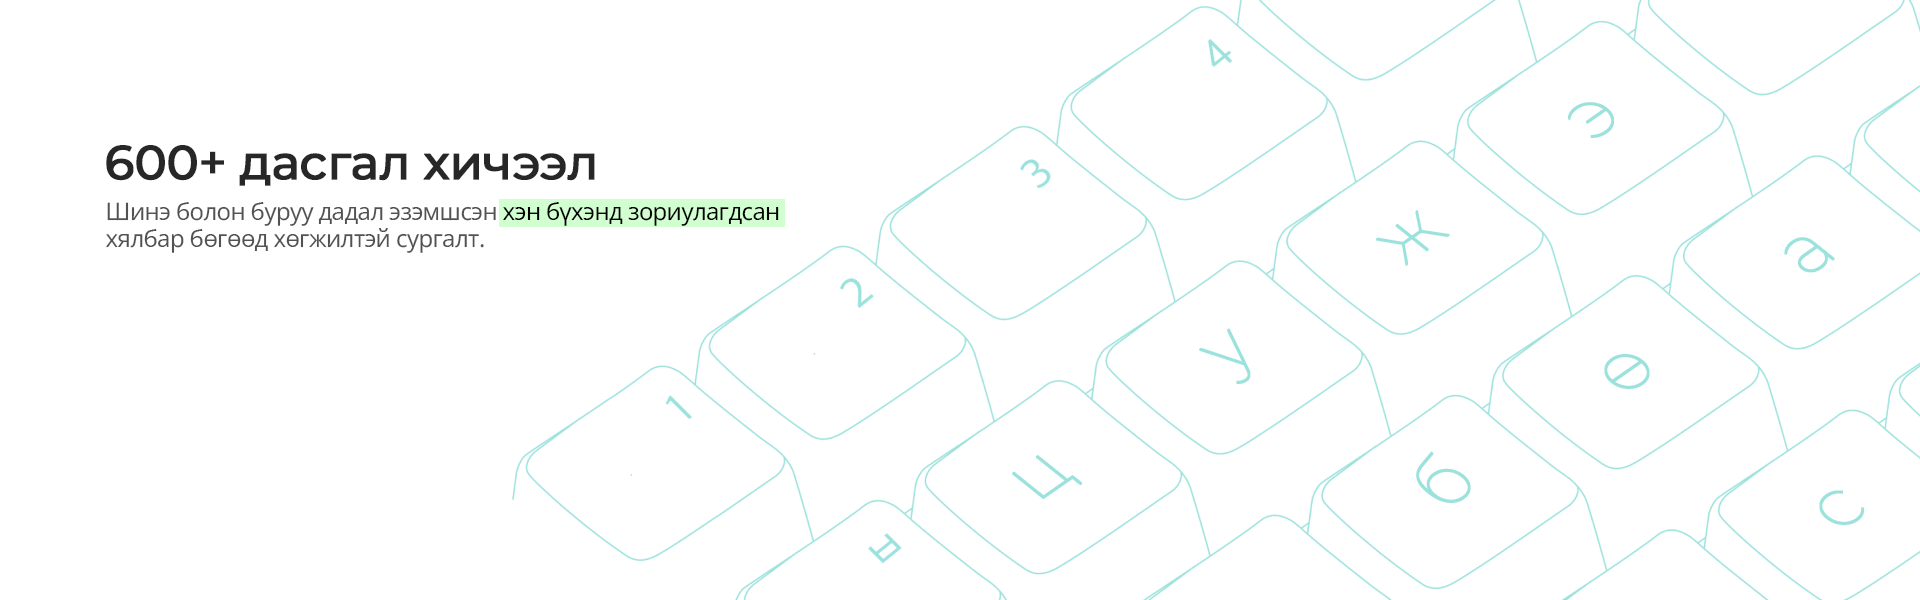
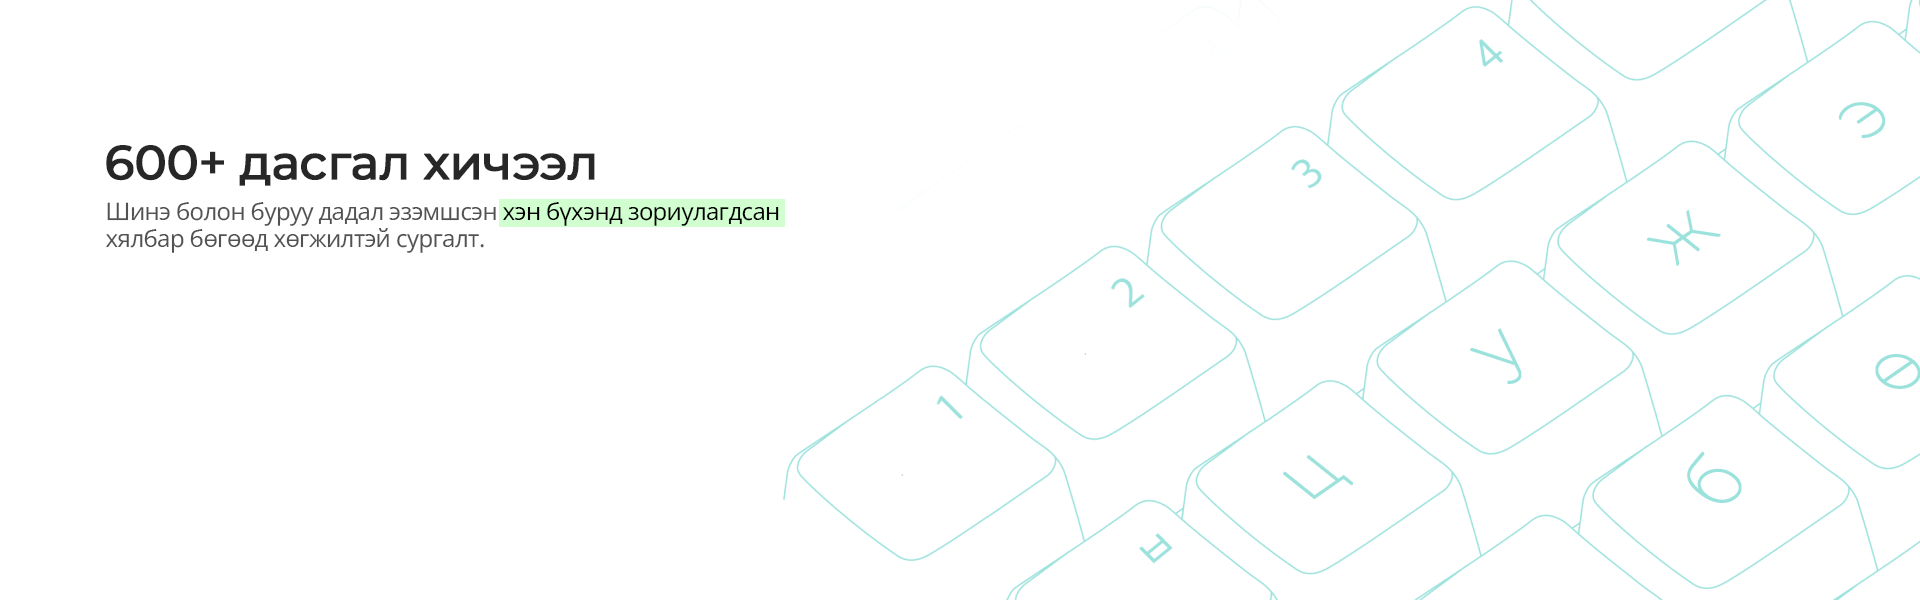
home page changes

diff --git a/front/src/views/Home.vue b/front/src/views/Home.vue
@@ -3,7 +3,8 @@
     <section class="home">
       <a-carousel>
         <div v-for="(item, index) in banner" :key="'banner' + index" class="banner">
-          <img :src="$appUrl +'/images/banner/'+item.banner" alt="">
+          <img v-if="!isMobile" :src="$appUrl +'/images/banner/'+item.banner" alt="">
+          <img v-else :src="$appUrl +'/images/banner/'+item.mobile" alt="">
           <router-link :to="item.link">
             <div class="button">Хичээл эхлүүлэх</div>
           </router-link>
@@ -11,29 +12,135 @@
       </a-carousel>
     </section>
 
-    <section class="">
-      
-    </section>
-    <section class="footer">
-      
-    </section>
+    <div class="home-container">
+      <div class="header">Нийтлэг ойлголт</div>
+      <section class="about">
+        <div class="col">
+          <div class="title">
+            Суралцагчид ихэвчлэн юун дээр алддаг вэ?
+          </div>
+          <div class="more">
+            Хурдан бичиж сурах гэж оролдож байгаа хүмүүс ихэвчлэн компьютерийн
+            гар руу харах нь элбэг. Гэхдээ энэ нь хамгийн түгээмэл гаргадаг алдаануудын нэг юм.
+          </div>
+        </div>
+        <div class="col">
+          <div class="title">
+            Хэрхэн засах вэ?
+          </div>
+          <div class="more">
+            Typing.mn-ыг ашиглахдаа компьютерийн <strong>гар руу огт харахгүйгээр</strong> хичээл дээр
+            гарч байгаа гарын байрлалыг зөв дуурайж бичих хэрэгтэй. Энэ нь таны гар үндсэн байрлалаа илүү хурдан цээжлэх хамгийн <strong>энгийн</strong> бөгөөд <strong>үр дүнтэй</strong> арга юм.
+          </div>
+        </div>
+      </section>
+
+      <section class="about mb-100">
+        <div class="col">
+          <div class="title">
+            Typing.mn нь хэрхэн ажилдаг вэ?
+          </div>
+          <div class="more">
+            Бүтэн 200 оноо авах хүртлээ хичээл бүрийг дахин давт. Таниас тийм их зүйл шаардагдахгүй. Өдөрт хэдхэн минутаар, хэдхэн долоо хоног хичээллэхэд та мэргэжлийн болсон байх болно.
+          </div>
+        </div>
+        <div class="col">
+          <div class="title">
+            Бүртгэл үүсгэх шаардлагатай юу?
+          </div>
+          <div class="more">
+            Өөрийнхөө ахиц дэвшлийг хадгалахын тулд <strong>typing.mn</strong> дээр бүртгэл үүсгэх шаардлагатай. Энэ нь таны <strong>сошиал хаяг</strong> руу бид хандана гэсэн үг огт биш. Зөвхөн typing.mn дээр ашиглагдах таны өөрийн хаяг байх болно.
+          </div>
+        </div>
+      </section>
+    </div>
+    <div class="full">
+      <div class="home-container">
+        <div class="header center top-50">Typing.mn-ыг ашиглах шалтгаан</div>
+        <div class="grid">
+          <div class="grid-item"> 
+            <img class="image" src="@/assets/images/game.png" alt="">
+            <div class="description">
+              <strong>Энэ бол тоглоом юм</strong>. <br>Таныг бичиж сурахад илүү сонирхолтой, интерактив талаас нь хөгжүүлэлт хийгдсэн сургалт.
+            </div>
+          </div>
+          <div class="grid-item"> 
+            <img class="image" src="@/assets/images/hands.png" alt="">
+            <div class="description">
+              <strong>Гарын зөв байрлалын хөтөч</strong>. <br>Таныг бичих явцад үсэг, товч бүр дээр гарын зөв байрлалыг харуулах болно.
+            </div>
+          </div>
+          <div class="grid-item">
+            <img class="image" src="@/assets/images/vid.png" alt="">
+            <div class="description">
+              <strong>Интерактив туршлага олгоно</strong>. <br>Тоглоом, Видео, Текст гээд янз бүрийн бичиж сургах сорилтууд багтсан хөгжилтэй, сонирхолтой хичээлүүд. 
+            </div>
+          </div>
+        </div>
+      </div>
+    </div>
+    <a-layout-footer>
+		<a-row type="flex">
+			<a-col :span="12" :md="12">
+
+				<!-- Footer Copyright Notice -->
+				<p class="copyright">
+					© {{year}},
+					<svg width="20" height="20" viewBox="0 0 20 20" fill="none" xmlns="http://www.w3.org/2000/svg">
+						<path fill-rule="evenodd" clip-rule="evenodd" d="M3.17157 5.17157C4.73367 3.60948 7.26633 3.60948 8.82843 5.17157L10 6.34315L11.1716 5.17157C12.7337 3.60948 15.2663 3.60948 16.8284 5.17157C18.3905 6.73367 18.3905 9.26633 16.8284 10.8284L10 17.6569L3.17157 10.8284C1.60948 9.26633 1.60948 6.73367 3.17157 5.17157Z" fill="#111827"/>
+					</svg> -аар бүтээв.
+				</p>
+				<!-- / Footer Copyright Notice -->
+
+			</a-col>
+			<a-col :span="12" :md="12" class="footer-control pr-20">
+				Typing.mn
+				<!-- Гео интегрэйшн ХХК -->
+			</a-col>
+		</a-row>
+	</a-layout-footer>
   </div>
 </template>
 <script>
+const year = new Date().getFullYear();
 export default {
   data() {
     return {
+      year,
       banner: [
         {
           link: '/subjects',
-          banner: 'homebanner.png'
+          banner: 'homebanner.png',
+          mobile: 'mhomebanner.png'
         },
         {
           link: '/subjects',
-          banner: 'homebanner2.png'
+          banner: 'homebanner2.png',
+          mobile: 'mhomebanner2.png'
         }
-      ]
+      ],
+      isMobile: false
     }
+  },
+  computed: {
+
+  },
+  methods: {
+    resize() {
+      if (window.innerWidth > 900) {
+        this.isMobile = false;
+        return;
+      }
+      this.isMobile = true;
+    }
+  },
+  mounted() {
+    this.resize();
+    window.addEventListener('resize', this.resize);
+  },
+  beforeRouteLeave (to, from, next) {
+    window.removeEventListener('resize', this.resize);
+    next();
   }
 }
 </script>

diff --git a/front/src/scss/pages/_home.scss b/front/src/scss/pages/_home.scss
@@ -8,12 +8,12 @@
 
 .home-page {
   .home {
-    height: 60vh;
+    // height: 60vh;
     width: 100%;
-    background-color: grey;
+    // background-color: grey;
 
     .slick-slide {
-      height: 60vh;
+      height: auto;
       display: flex;
       justify-content: center;
       align-items: center;
@@ -41,18 +41,140 @@
         position: absolute;
         left: 10%;
         top: 75%;
-        width: 250px;
-        height: 70px;
+        // @include vw-convert-desktop('width', 250px);
+        // @include vw-convert-desktop('height', 70px);
+        width: 15%;
+        height: 12%;
         display: flex;
         justify-content: center;
         align-items: center;
         font-weight: 600;
         box-shadow: rgb(38, 57, 77) 0px 20px 30px -10px;
+
+        @include mobile {
+          width: 40vw;
+          height: 12%;
+        }
       }
     }
 
     .ant-carousel .slick-dots li button {
       background: #000000;
+    }
+  }
+
+
+  .about {
+    display: flex;
+    flex-direction: row;
+    @include vw-convert-desktop('margin-top', 80px);
+    @include vw-convert-desktop(gap, 50px);
+
+    @include mobile {
+      flex-direction: column;
+      gap: 50px;
+    }
+
+    &.mb-100 {
+      @include vw-convert-desktop(margin-bottom, 100px);
+    }
+    .col {
+      width: 50%;
+      display: flex;
+      flex-direction: column;
+
+      @include mobile {
+        width: 90%;
+      }
+      
+      .title {
+        border-bottom: 1px solid #666666;
+        @include vw-convert-desktop(padding-bottom, 10px);
+        @include vw-convert-desktop(font-size, 15px);
+        font-weight: 500;
+
+        @include mobile {
+          @include vw-convert-mobile(padding-bottom, 10px);
+          @include vw-convert-mobile(font-size, 25px);
+        }
+      }
+      
+      .more {
+        @include vw-convert-desktop(margin-top, 30px);
+      }
+    }
+  }
+}
+
+.full {
+  background-color: #FAC15A;
+
+  .home-container {
+    @include vw-convert-desktop(padding, 10px 0px);
+
+    @include mobile {
+      @include vw-convert-mobile(padding, 10px 0px);
+    }
+  }
+}
+
+.home-container {
+  width: 60%;
+  margin: auto;
+  position: relative;
+
+  @include mobile {
+    width: 70%;
+  }
+
+  .header {
+    @include vw-convert-desktop(font-size, 30px);
+    @include vw-convert-desktop(margin-top, 60px);
+    font-weight: 600;
+
+    @include mobile {
+      @include vw-convert-mobile(font-size, 30px);
+      @include vw-convert-mobile(margin-top, 60px);
+    }
+    &.center {
+      text-align: center;
+    }
+
+    &.top-50 {
+      @include vw-convert-desktop(margin-top, 60px);
+
+      @include mobile {
+        @include vw-convert-mobile(margin-top, 60px);
+      }
+    }
+  }
+
+  .grid {
+    display: grid;
+    grid-template-columns: 1fr 1fr 1fr;
+    @include vw-convert-desktop(gap, 60px);
+    @include vw-convert-desktop(margin, 50px 0px);
+
+    @include mobile {
+      grid-template-columns: 1fr;
+      @include vw-convert-mobile(gap, 60px);
+      @include vw-convert-mobile(margin, 50px 0px);
+    }
+    &-item {
+      display: flex;
+      // justify-content: center;
+      align-items: center;
+      flex-direction: column;
+
+      .image {
+        width: 40%;
+        height: auto;
+        background: transparent;
+      }
+
+      .description {
+        text-align: center;
+      }
     }
   }
 }
